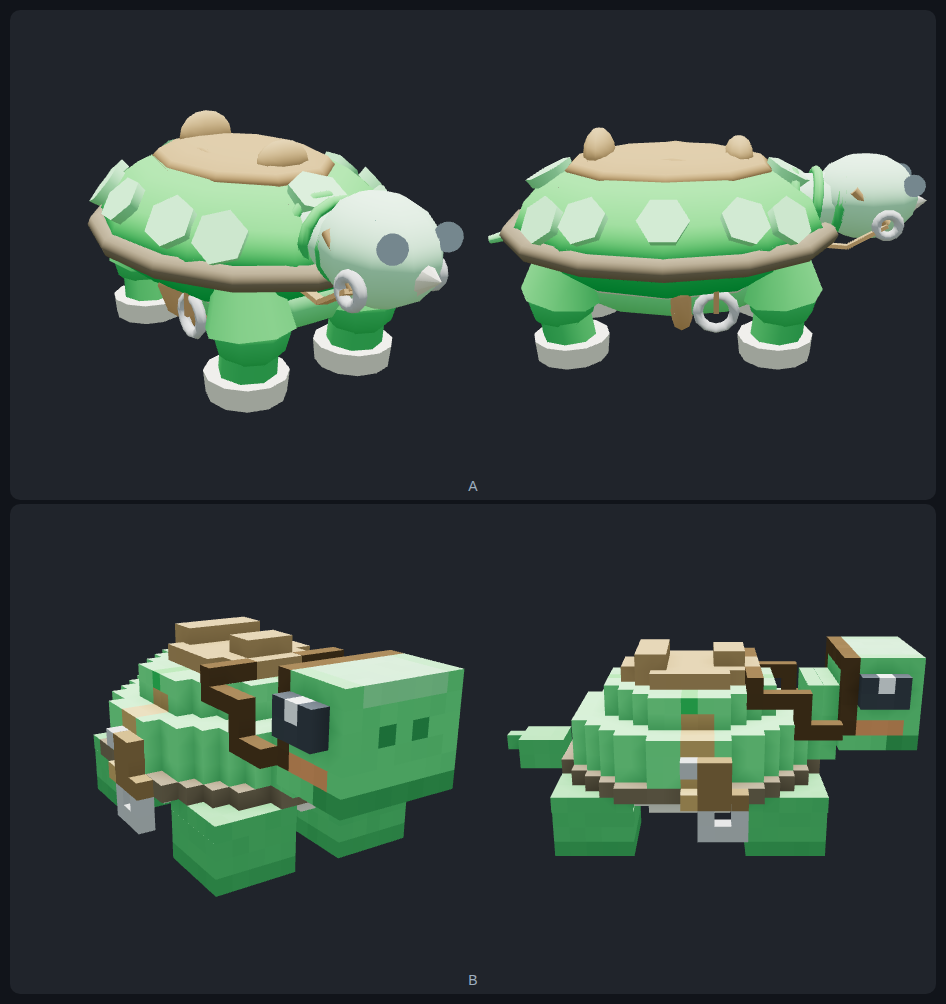
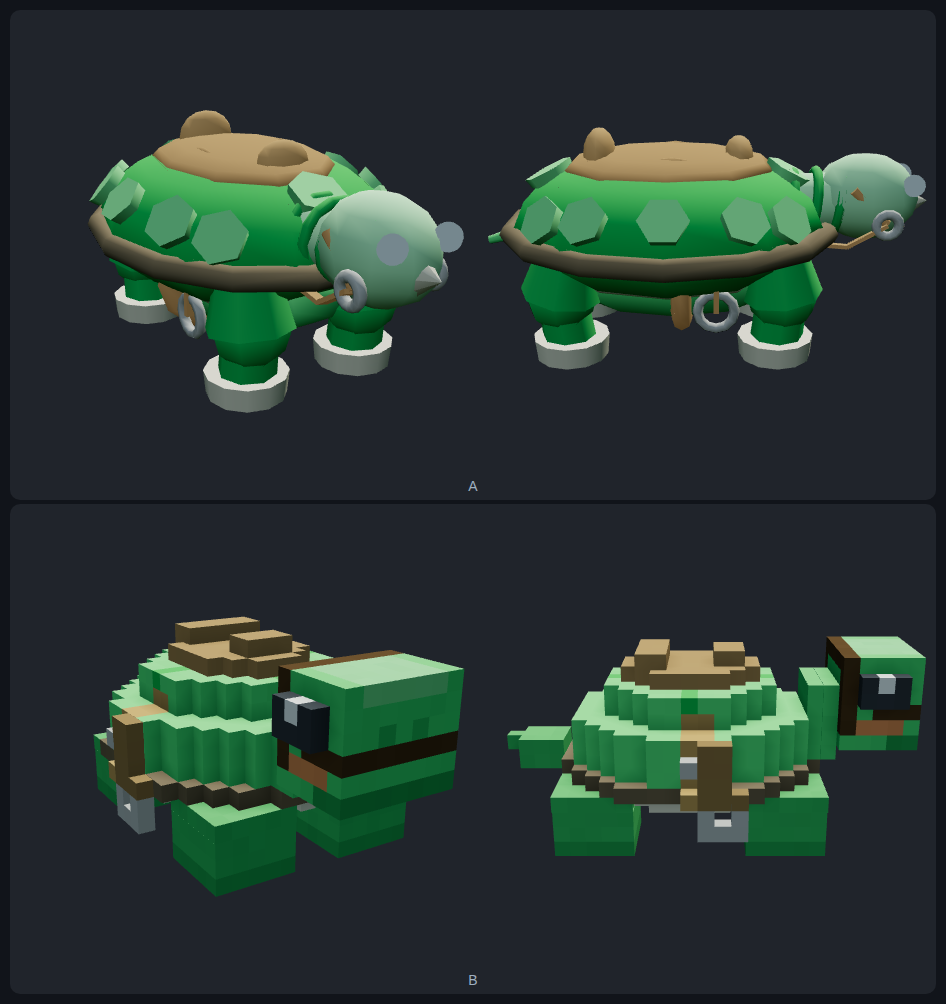
탈것 큐브 시험판 11차 교집합 반영 — 고삐 줄 3번째 폐기 확정(옆면 추종판도 '엉킨 밧줄/붕대'·안장 옆 상자 더미 재료, 7/7→6.5/6 하락 원인) + 직교 노즈밴드 신설(정수리 고리와 직교하는 할터 두 고리) + 등자 끈 y5~7 연장·한 단 승명(STRAP 0x6f4a22, '금속 조각 부유' 인과 보강) + 콧구멍 대비 원복(돼지코 재발 반려) — probe-voxel-pilot-fit 11파츠 겹침 0·부유 0, 12차 채점판 재발행 (mount-species-recognizable)

diff --git a/web/js/scene3d.js b/web/js/scene3d.js
@@ -14802,7 +14802,9 @@ const Scene3D = {
         //    뱃대끈 밴드와 같은 BLANKET 이라 띠에 녹아 회색 고리만 남았다. 밴드보다 한 단 어두운
         //    가죽이면 띠 위에서 '띠에서 내려온 끈'이 갈린다(LEATHER 근흑까지 내리면 4차의 '어두운
         //    몸 위에서 끈만 안 보임'이 돌아온다 — 중간 단이 답이다).
-        const STRAP = 0x5f3d1c;
+        //    11차 교집합("등자가 스트랩 연결 없이 몸에 박힌 금속 조각")로 한 단 더 밝히고 끈을
+        //    뱃대끈 상단(y7)까지 연장 — 끈 3칸이 서야 '안장·띠에서 내려온 등자'의 인과가 보인다.
+        const STRAP = 0x6f4a22;
         // XY 평면의 한 칸 두께 사각 고리 — 등자·재갈 고리용. `Voxel.ring` 은 **눕힌(XZ) 링**이라
         // 등자로 쓰면 발이 통과하는 구멍이 위를 보고 누워 버린다(고리는 세워져야 발이 걸린다).
         const ringXY = (r, color) => {
@@ -15191,6 +15193,10 @@ const Scene3D = {
             //    한 줄로 이어지면 굴레 볼끈이다. 다음 채점이 또 '밴드'라 하면 그땐 정수리 줄을 빼고
             //    버클만 남기는 쪽이 다음 수다(반대 방향은 이미 두 번 실패).
             if (v.z === 10 && (v.y === 11 || (Math.abs(v.x) === 3 && v.y >= 7))) return LEATHER;
+            // 노즈밴드(11차 교집합 — A "코를 감는 수평 한 줄 + 뺨 수직 한 줄로 직교 정리" · B "코
+            // 둘레 1줄 + 뒤통수 1줄의 직교 루프"): 주둥이 앞머리(y8)를 수평으로 감는 한 줄. 색이라
+            // 뜰 것이 없고, 정수리 세로 고리(z10)와 직교해 '할터 굴레'의 두 고리가 선다.
+            if (v.y === 8 && (v.z === 14 || (Math.abs(v.x) === 3 && v.z >= 12))) return LEATHER;
             if (Math.abs(v.x) === 3 && v.y === 7 && v.z >= 10 && v.z <= 13) return CHEEK;  // 뺨 줄무늬
             // 🚨 **입선·콧구멍은 SKIN_D 보다 한 단 더 어둡게 + 입선은 전폭·모서리 감기 — 10차
             //    교집합 ⑸('정면 얼굴 공백').** 눈이 옆면 돌출이라 정면은 무표정이었다. 정면 눈
@@ -15200,7 +15206,9 @@ const Scene3D = {
             if (v.y === 6 && (v.z === 14 || (Math.abs(v.x) === 3 && v.z === 13))) return H(-0.10, -0.27);   // 입선
             //  ⚠ 콧구멍은 y9(눈높이 바로 밑) — y8 에 두면 *"위치가 낮고 간격이 넓어 돼지코"*
             //     (9차 채점 2인 공통). 거북 콧구멍은 부리 끝 위쪽이다.
-            if (v.z === 14 && v.y === 9 && Math.abs(v.x) === 1) return H(-0.10, -0.30);  // 콧구멍 두 칸(대비 ↑)
+            //  🚨 대비 강화(-0.30)는 11차 2인 교집합 "돼지 코"로 반려 — SKIN_D 로 원복(9차의 y9
+            //     위치는 유지). 콧구멍 축은 '진하게'가 아니라 '작고 은은하게'가 답이다.
+            if (v.z === 14 && v.y === 9 && Math.abs(v.x) === 1) return SKIN_D;  // 콧구멍 두 칸
             // 면 분할 — 정수리 한 줄만 밝게. 2판은 턱 줄까지 어둡게 갈랐는데, 머리가 커진 3판에서는
             // 가로줄이 둘이면 **머리가 층진 상자**로 보인다(등딱지에서 층을 줄인 것과 같은 이유).
             if (v.y === 11 && v.z >= 10 && Math.abs(v.x) < 3) return SKIN_L;
@@ -15288,7 +15296,7 @@ const Scene3D = {
             //    세로 대역**이라 *"셸 림에 박힌 회색 돌/이물질"* 로 읽혔다(2인 공통). 매달린 것도
             //    박힌 것도 아닌 답은 **테두리 밑선에 걸쳐 한 칸 드리우는 것**: y3 중심(고리 y2~4)
             //    이면 윗칸이 테두리 옆에 물리고 아랫칸이 림 밑으로 나와 '걸어 둔 등자'가 된다.
-            stirrupX: 8, stirrupY: 3, strapTopY: 6,   // 끈은 뱃대끈(y6)에서 곧게 내린다 — 사선 금지
+            stirrupX: 8, stirrupY: 3, strapTopY: 7,   // 끈은 뱃대끈 상단(y7)에서 곧게 내린다 — 사선 금지 (11차: 끈 3칸 가시화)
             //  🚨 **긴 고삐는 폐기했다(캡처로 잡았다).** 볼에서 안장 앞턱까지 y11 로 넘겼더니
             //     좌우 두 줄이 몸 위를 활처럼 건너 **'짐칸 롤바'** 가 됐다 — 탈것이 아니라 수레로
             //     읽힌다. 원인은 굵기가 아니라 **길이와 높이**다: 안 탄 탈것의 고삐는 잡아 주는
@@ -15296,14 +15304,15 @@ const Scene3D = {
             //     (*"고삐가 지면까지 늘어져 있었다"* — 진행 메모 ⑬). 라이브에서 고삐는 손 위치를
             //     따라가는 **동적 부품**이라, 서 있는 썸네일이 져야 할 몫은 **굴레와 앵커**까지다.
             //     → (그 판에서는) 볼 버클만 남기고 줄은 안 그렸다.
-            // 🔁 **10차 교집합 ⑹ 재시도 — '몸 옆면을 타는 짧은 선'.** 롤바(y11 로 몸 위를 활처럼
-            //    건너는 두 줄)의 사인(死因)은 **높이와 길이**였으므로, 이번 줄은 ⓐ 몸 위를 안
-            //    건너고 **옆(x4) 한 열에서만** 논다 ⓑ 몸 윤곽(목덜미 y7 → 어깨 y9 → 안장 y10)을
-            //    한 칸 간격으로 따라 내려가 허공 구간이 짧다 ⓒ 끝 칸 (2,10,4)가 방석 셀 (1,10,4)에
-            //    **면으로 닿아** 두 끝이 다 부품에 물린다(⑰의 '끈' 자격 요건). 경유점은 전부
-            //    빈 칸을 실측으로 확인해 골랐다(deckC 타원 밖 · 시트 타원 밖 — 겹침 0).
-            //    다음 채점이 '관/난간'으로 읽으면 이 줄만 빼면 된다(앵커·굴레는 그대로).
-            reinPath: [[4, 7, 10], [4, 9, 7], [4, 9, 5], [2, 10, 4]],
+            // 🚨🚨 **고삐 줄은 세 번째 폐기다 — 다시 그리지 말 것(11차 채점 2인 교집합).** ⑹ 재시도로
+            //    '몸 옆면(x4)을 타는 짧은 선'(볼 버클→안장 앞턱, 몸 윤곽 y7→9→10 추종)을 넣었더니
+            //    A *"굴레 스트랩이 눈 옆을 계단형 대각선으로 가로질러 붕대/눈가리개"* · B *"머리에
+            //    엉킨 밧줄 + 스트랩 일부가 허공을 지나감"*, 그리고 안장 옆 끝 칸들이 *"높이 제각각
+            //    상자 더미"* 의 재료가 되어 **총점이 7/7 → 6.5/6 으로 되레 떨어졌다.** 롤바(y11)·
+            //    긴 처짐·옆면 추종까지 세 방향 전부 실패 — 서 있는 썸네일에서 고삐 줄은 구조적으로
+            //    안 된다(잡는 손이 없는 한 어디 두어도 '소속 불명 밧줄'이다). 이 판의 몫은 **직교
+            //    굴레(정수리·뺨·노즈밴드) + 볼 버클(앵커)까지**고, 줄은 라이브 이식 때 `bridleRig`
+            //    앵커 계약으로 손을 따라가는 동적 부품으로만 단다.
         });
         const TACK_OPTS = { jitter: 0.004, ao: 0.55 };   // 끈·버클은 민짜로 — part() 주석 참조
         // 뱃대끈 밴드 — 몸 셀에 칠한다(voxelTackVox 의 girthBand 문법). 링을 띄우던 시절의
@@ -15323,10 +15332,7 @@ const Scene3D = {
         part(tack.girth, 0, 0, 0, TACK_OPTS);
         // 등자는 좌우 **각자 피벗**에 — 라이브에서는 `alignStirrups` 가 매 프레임 발까지 늘인다.
         g.userData.stirrups = [part(tack.stirrupL, -9, CY.deckA, 0, TACK_OPTS), part(tack.stirrupR, 9, CY.deckA, 0, TACK_OPTS)];
-        //  고삐 줄(⑹ 재시도) — 볼 버클 칸은 머리 파츠 것이라 첫 칸을 떼고 단다(같은 칸을 두 파츠가
-        //  채우면 z-fighting — 남는 첫 칸 (±4,7,9)가 버클에 면으로 닿아 연결은 유지된다).
-        //  피벗은 버클 자리(라이브에서 손을 따라 늘어날 축).
-        g.userData.reins = [part(tack.reinL.slice(1), -4, 7, 10, TACK_OPTS), part(tack.reinR.slice(1), 4, 7, 10, TACK_OPTS)];
+        //  고삐 줄은 이 판에 없다(11차 폐기 — 위 reinPath 메모). 앵커는 머리의 볼 버클이 진다.
 
         g.userData.voxelPilot = true;
         return g;
